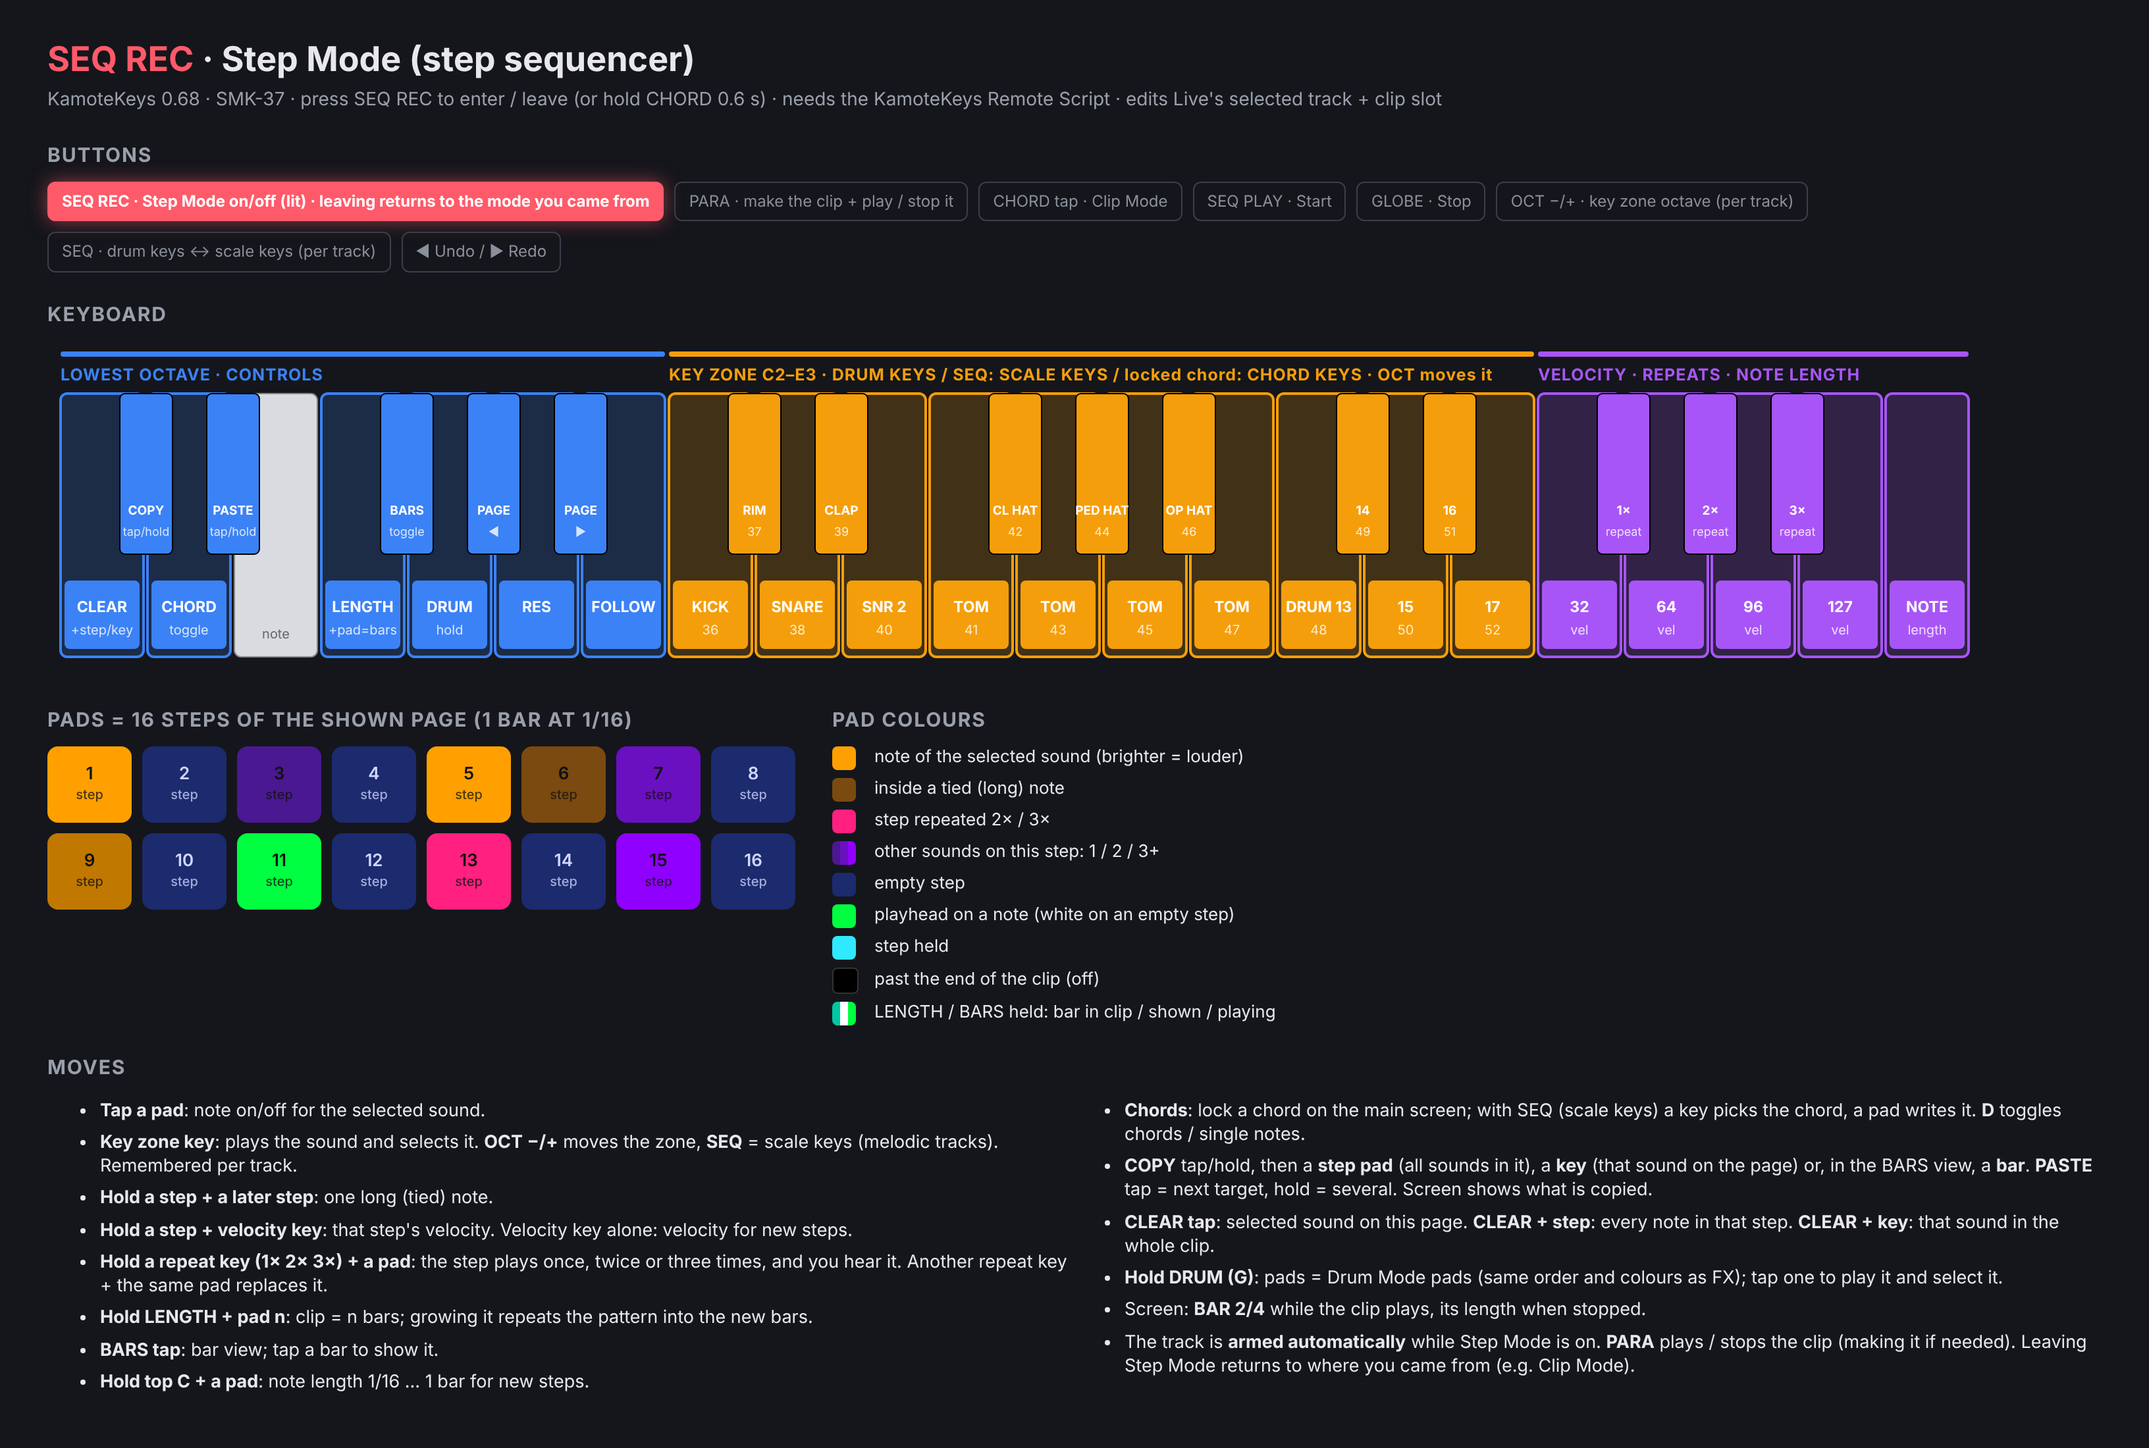
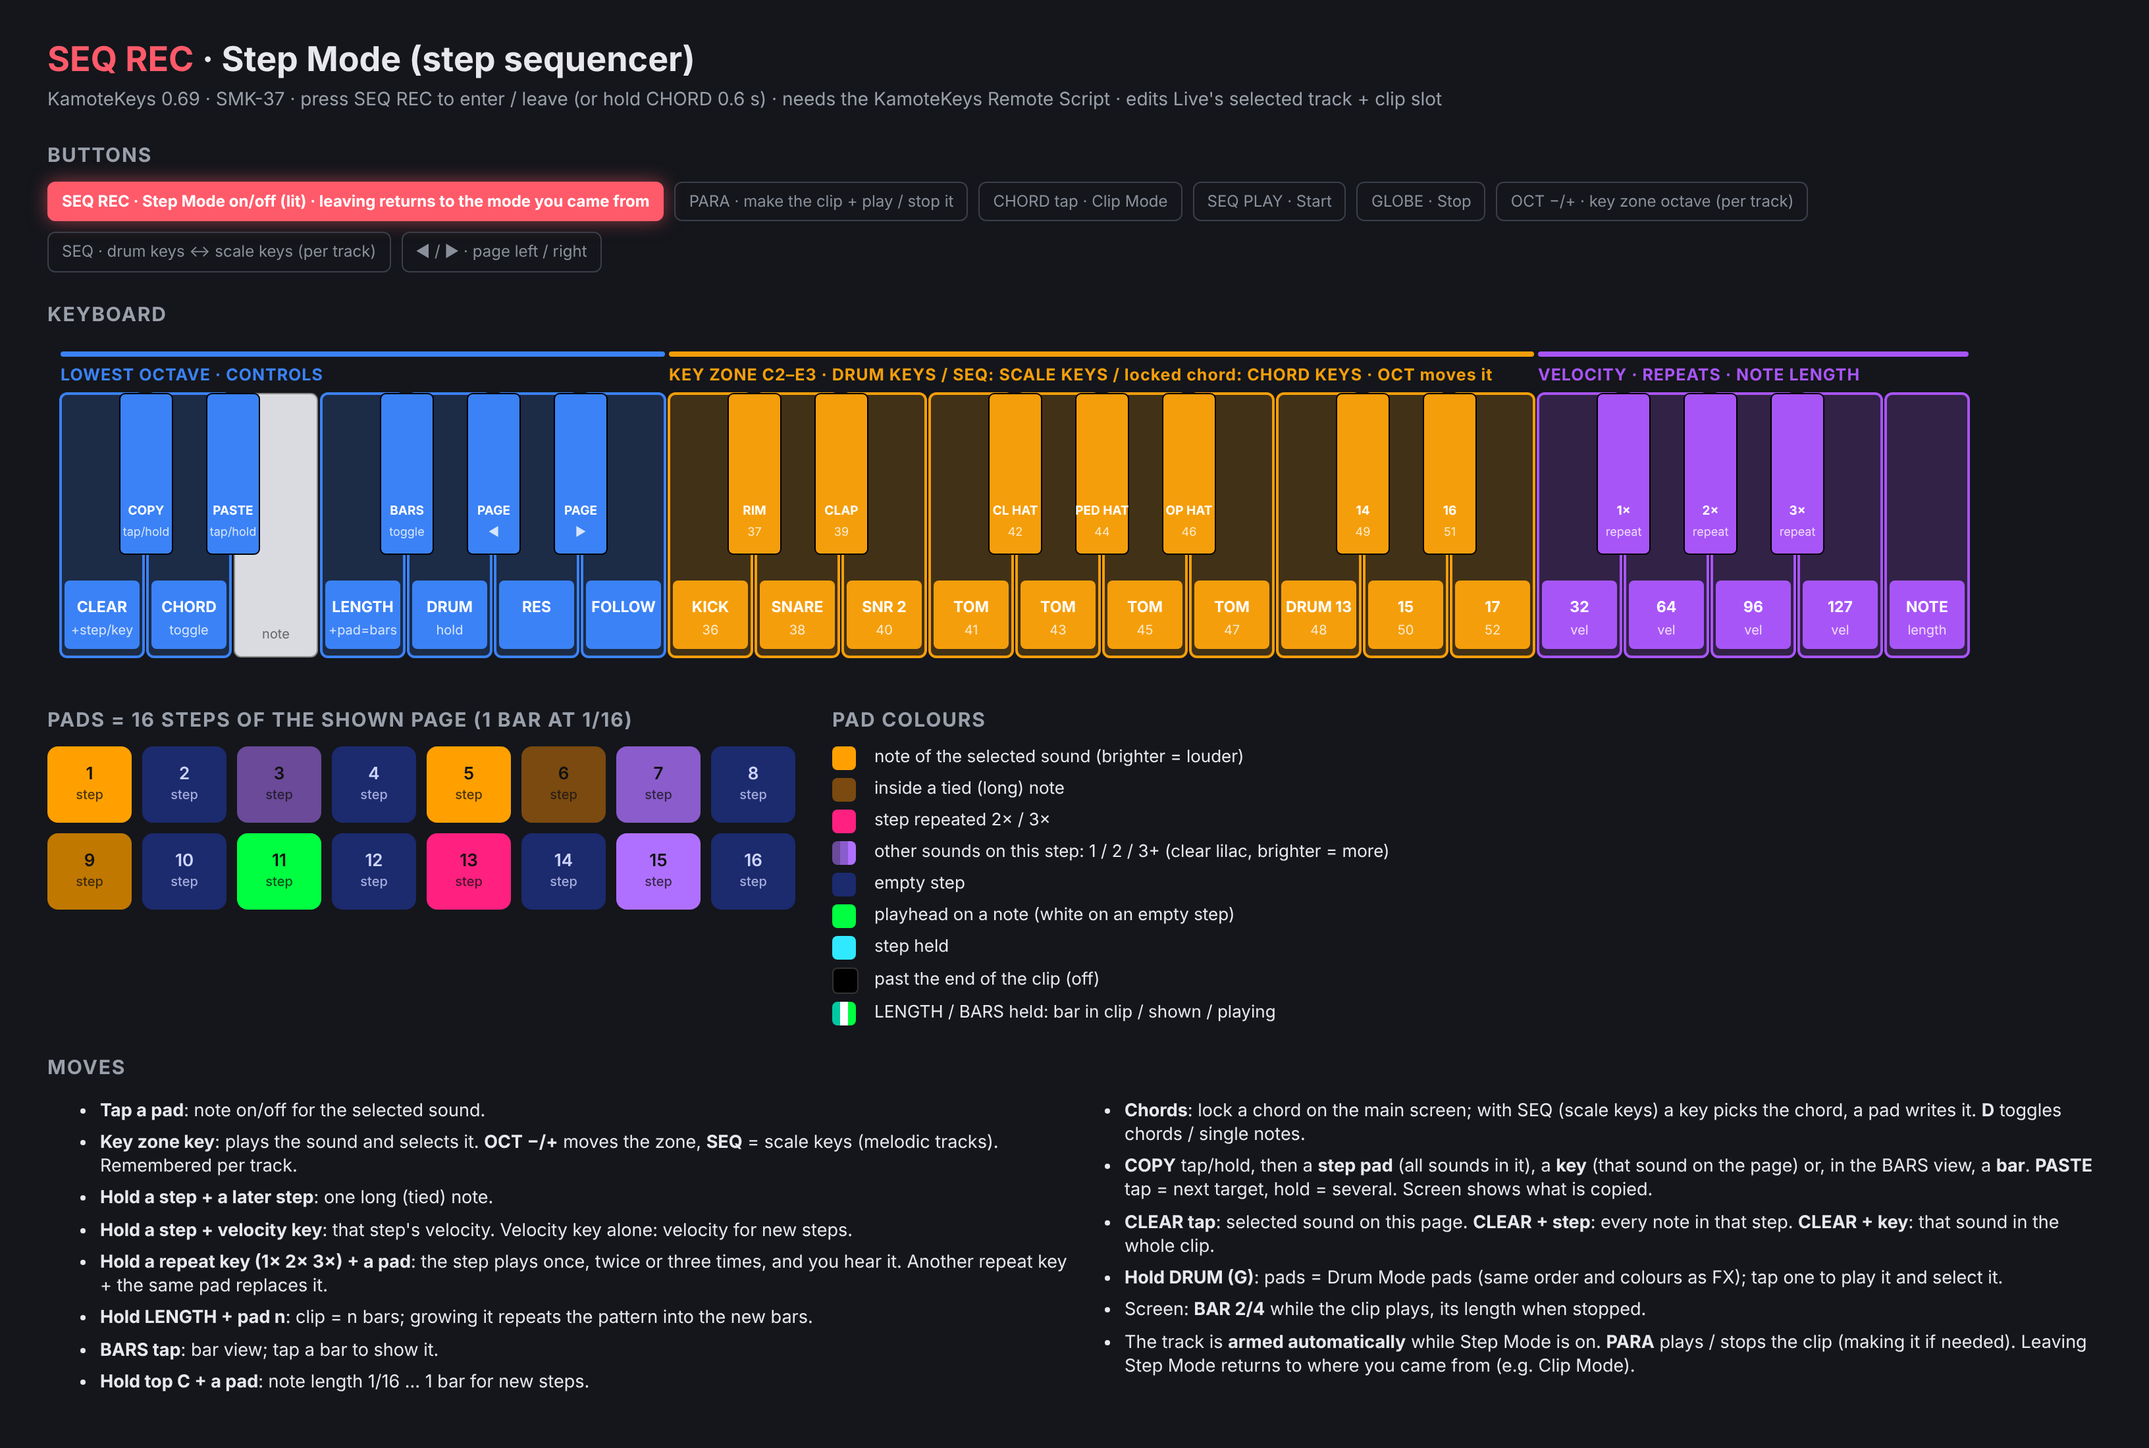
KamoteKeys 0.69: Bluetooth send queue (Step / Clip Mode no longer lose messages on a full BLE buffer), ◀/▶ page in Step Mode, clearer other-sound tint
Claude-Session: https://claude.ai/code/session_014nKCDtX9z2HT4cnrjTFgfW

diff --git a/tests/host/test_features.c b/tests/host/test_features.c
@@ -148,3 +148,60 @@ void test_live_tempo(void)
     host_in(0xBF, KK_HOST_TEMPO_MSB_CC, 1400 >> 7); host_in(0xBF, KK_HOST_TEMPO_LSB_CC, 1400 & 127);
     CHECK(kk_tempo_x10() == 1200, "tempo without the script's hello is ignored");
 }
+
+/* 0.69: every Step Mode and Clip Mode message over Bluetooth only, with the
+ * BLE buffer often full: nothing may be lost or reordered. */
+static unsigned ble_count(unsigned status, int data1) { return out_count(BLE, status, data1); }
+static void ble_in(uint8_t a, uint8_t b, uint8_t c) { uint8_t m[3] = {a, b, c}; fm1_app_midi_received(2, m, 3); }
+void test_bluetooth(void)
+{
+    boot();
+    host_ready_ports = 4; frames(30, 5);                      /* Bluetooth only */
+    ble_in(0xBF, KK_CLIP_HELLO_CC, 1);
+    /* Step Mode in / out and every key type, with the BLE buffer full now and then. */
+    host_clear(); host_ble_busy = 2; tap(KK_BTN_REC); frames(5, 5);
+    CHECK(kk.mode == KK_MODE_STEP && ble_count(0xBD, KK_STEP_SYNC_CC) >= 1, "BLE: Step Mode on reaches Live despite a full buffer");
+    host_clear();
+    host_ble_busy = 3; pad(1, 100); pad(1, 0);                /* a step */
+    host_ble_busy = 1; key(1, 100); key(1, 0);                /* COPY */
+    host_ble_busy = 2; key(12, 100); key(12, 0);              /* key zone: kick (ch 10) + select (ch 13) */
+    host_ble_busy = 1; key(5, 100); pad(2, 100); pad(2, 0); key(5, 0);   /* LENGTH + pad */
+    host_ble_busy = 2; tap(KK_BTN_OCT_UP); tap(KK_BTN_SEQ); tap(KK_BTN_PARA); tap(KK_BTN_LEFT); tap(KK_BTN_RIGHT);
+    host_ble_busy = 1; key(7, 100); pad(9, 100); pad(9, 0); key(7, 0);   /* DRUM view pad: rim */
+    frames(20, 5);
+    CHECK(ble_count(0x9D, 36) == 1 && ble_count(0x8D, 36) == 1, "BLE: step pad on/off");
+    CHECK(ble_count(0x9D, KK_STEP_COPY) == 1 && ble_count(0x8D, KK_STEP_COPY) == 1, "BLE: COPY on/off");
+    CHECK(ble_count(0x99, 36) == 1 && ble_count(0x9C, 36) == 1 && ble_count(0x8C, 36) == 1, "BLE: key zone sound + select");
+    CHECK(ble_count(0x9D, KK_STEP_LENGTH) == 1 && ble_count(0x9D, 37) == 1, "BLE: LENGTH + pad");
+    CHECK(ble_count(0x9D, KK_STEP_OCT_UP) == 1 && ble_count(0x9D, KK_STEP_SCALE_KEYS) == 1 && ble_count(0x9D, KK_STEP_PLAY) == 1 &&
+          ble_count(0x9D, KK_STEP_PAGE_PREV) == 1 && ble_count(0x9D, KK_STEP_PAGE_NEXT) == 1, "BLE: OCT, SEQ, PARA, ◀, ▶");
+    CHECK(ble_count(0x99, 37) == 1 && ble_count(0x9C, 37) == 1, "BLE: DRUM view pad plays + selects");
+    CHECK(out_count(USB, 0x9D, -1) == 0, "BLE only: nothing goes to USB");
+    {   /* order kept: COPY note-on comes after the step pad's note-off */
+        int off = -1, copy = -1;
+        for (unsigned i = 0; i < host_out_n; ++i) {
+            if (host_out[i].port != BLE) continue;
+            if (off < 0 && host_out[i].b[0] == 0x8D && host_out[i].b[1] == 36) off = (int)i;
+            if (copy < 0 && host_out[i].b[0] == 0x9D && host_out[i].b[1] == KK_STEP_COPY) copy = (int)i;
+        }
+        CHECK(off >= 0 && copy > off, "BLE: messages stay in order (%d, %d)", off, copy);
+    }
+    /* Feedback from Live over Bluetooth drives the pads. */
+    ble_in(0xBD, KK_STEP_CODE_CC + 3, KK_STEPC_NOTE_6); settle();
+    CHECK(kk_midi_step_code(3) == KK_STEPC_NOTE_6 && ((host_rgb[3] >> 16) & 255) >= KK_RGB_PEAK * 9 / 10, "BLE: step colours from Live");
+    host_clear(); host_ble_busy = 1; frames(450, 5);
+    CHECK(ble_count(0xBD, KK_STEP_SYNC_CC) >= 1, "BLE: Step Mode heartbeat");
+    host_clear(); host_ble_busy = 2; tap(KK_BTN_REC); frames(5, 5);
+    CHECK(kk.mode == KK_MODE_NORMAL && ble_count(0xBD, KK_STEP_SYNC_CC) == 1, "BLE: Step Mode off reaches Live");
+    /* Clip Mode over Bluetooth. */
+    tap(KK_BTN_CHORD); host_clear();
+    host_ble_busy = 2; pad(3, 100); pad(3, 0); key(1, 100); key(1, 0); key(8, 100); key(8, 0);
+    host_ble_busy = 1; key(10, 100); pad(4, 100); pad(4, 0); key(10, 0); key(30, 100); key(30, 0); key(33, 100); key(33, 0);
+    frames(20, 5);
+    CHECK(ble_count(0x9F, 84 + 2) == 1 && ble_count(0x9F, KK_CLIP_COPY_NOTE) == 1 && ble_count(0x9F, KK_CLIP_ARRANGE_NOTE) == 1 &&
+          ble_count(0x9F, 68 + 3) == 1 && ble_count(0xBE, KK_CC_SCENE_LAUNCH) == 2 && ble_count(0xBE, KK_CC_TRACKS_LEFT) == 2,
+          "BLE: clip select, COPY, ARRANGE, DELETE, scene launch, track view");
+    ble_in(0xBF, KK_CLIP_STATE_CC + 0, KK_CLIP_PLAYING); settle();
+    CHECK(kk_midi_clip_state(0) == KK_CLIP_PLAYING, "BLE: clip states from Live");
+    tap(KK_BTN_CHORD); host_ready_ports = 6; host_ble_busy = 0; frames(30, 5);
+}

diff --git a/devices/fm1/app/midi_router.c b/devices/fm1/app/midi_router.c
@@ -167,6 +167,27 @@ static int held_elsewhere(const struct output *o, unsigned owner, unsigned ch, u
         if (i != owner && (o->held[i][note >> 3] & (1U << (note & 7U))) && owner_channel(i) == ch) return 1;
     return 0;
 }
+/* KamoteKeys (0.69): a message that does not fit the port right now (BLE MIDI
+ * has a small transmit buffer) waits here, in order, instead of resetting
+ * the port and losing everything sent until the reset ends. */
+enum { KQ = 64 };
+static struct { uint8_t m[KQ][3]; uint8_t head, tail; } kq[3];
+static int kq_send(unsigned port, const uint8_t *m)
+{
+    if (kq[port].head == kq[port].tail && !fm1_midi_send_port(port, m, size(m[0]))) return 0;
+    unsigned next = (kq[port].tail + 1U) % KQ;
+    if (next == kq[port].head) return 1;                     /* full: the caller recovers */
+    memcpy(kq[port].m[kq[port].tail], m, 3); kq[port].tail = (uint8_t)next;
+    return 0;
+}
+static void kq_flush(unsigned port)
+{
+    while (kq[port].head != kq[port].tail) {
+        const uint8_t *m = kq[port].m[kq[port].head];
+        if (fm1_midi_send_port(port, m, size(m[0]))) return;
+        kq[port].head = (uint8_t)((kq[port].head + 1U) % KQ);
+    }
+}
 static void deliver(unsigned port, unsigned owner, const uint8_t *m)
 {
     struct output *o = &output[port];
@@ -186,7 +207,7 @@ static void deliver(unsigned port, unsigned owner, const uint8_t *m)
             o->sent_sustain |= (uint16_t)(1U << ch);
         }
     }
-    if (fm1_midi_send_port(port, m, size(m[0]))) { recover(port); ++dropped; }
+    if (owner >= KK_OWNER ? kq_send(port, m) : fm1_midi_send_port(port, m, size(m[0]))) { recover(port); ++dropped; }
     else if (type == 0xb0 && m[1] == 64) {
         if (m[2] >= 64) o->sent_sustain |= (uint16_t)(1U << ch);
         else o->sent_sustain &= (uint16_t)~(1U << ch);
@@ -225,8 +246,9 @@ void groove_midi_poll(void)
 {
     unsigned ready = fm1_midi_ready_ports();
     for (unsigned p = 0; p < 3; ++p) {
-        if ((ready_seen & ~ready) & (1U << p)) recover(p);
+        if ((ready_seen & ~ready) & (1U << p)) { recover(p); kq[p].head = kq[p].tail; }   /* gone: drop the wait queue */
         if (!(ready & (1U << p))) continue;
+        kq_flush(p);
         struct output *o = &output[p];
         if (o->stop) {
             const uint8_t stop = 0xfc;

diff --git a/devices/smk37/app/midi_router.c b/devices/smk37/app/midi_router.c
@@ -206,6 +206,27 @@ static int held_elsewhere(const struct output *o, unsigned owner, unsigned ch, u
         if (i != owner && (o->held[i][note >> 3] & (1U << (note & 7U))) && owner_channel(i) == ch) return 1;
     return 0;
 }
+/* KamoteKeys (0.69): a message that does not fit the port right now (BLE MIDI
+ * has a small transmit buffer) waits here, in order, instead of resetting
+ * the port and losing everything sent until the reset ends. */
+enum { KQ = 64 };
+static struct { uint8_t m[KQ][3]; uint8_t head, tail; } kq[3];
+static int kq_send(unsigned port, const uint8_t *m)
+{
+    if (kq[port].head == kq[port].tail && !fm1_midi_send_port(port, m, size(m[0]))) return 0;
+    unsigned next = (kq[port].tail + 1U) % KQ;
+    if (next == kq[port].head) return 1;                     /* full: the caller recovers */
+    memcpy(kq[port].m[kq[port].tail], m, 3); kq[port].tail = (uint8_t)next;
+    return 0;
+}
+static void kq_flush(unsigned port)
+{
+    while (kq[port].head != kq[port].tail) {
+        const uint8_t *m = kq[port].m[kq[port].head];
+        if (fm1_midi_send_port(port, m, size(m[0]))) return;
+        kq[port].head = (uint8_t)((kq[port].head + 1U) % KQ);
+    }
+}
 static void deliver(unsigned port, unsigned owner, const uint8_t *m)
 {
     struct output *o = &output[port];
@@ -225,7 +246,7 @@ static void deliver(unsigned port, unsigned owner, const uint8_t *m)
             o->sent_sustain |= (uint16_t)(1U << ch);
         }
     }
-    if (fm1_midi_send_port(port, m, size(m[0]))) { recover(port); ++dropped; }
+    if (owner >= KK_OWNER ? kq_send(port, m) : fm1_midi_send_port(port, m, size(m[0]))) { recover(port); ++dropped; }
     else if (type == 0xb0 && m[1] == 64) {
         if (m[2] >= 64) o->sent_sustain |= (uint16_t)(1U << ch);
         else o->sent_sustain &= (uint16_t)~(1U << ch);
@@ -266,8 +287,9 @@ void groove_midi_poll(void)
 {
     unsigned ready = fm1_midi_ready_ports();
     for (unsigned p = 0; p < 3; ++p) {
-        if ((ready_seen & ~ready) & (1U << p)) recover(p);
+        if ((ready_seen & ~ready) & (1U << p)) { recover(p); kq[p].head = kq[p].tail; }   /* gone: drop the wait queue */
         if (!(ready & (1U << p))) continue;
+        kq_flush(p);
         struct output *o = &output[p];
         if (o->stop) {
             const uint8_t stop = 0xfc;

diff --git a/core/kamotkeys/kk_led.c b/core/kamotkeys/kk_led.c
@@ -69,9 +69,9 @@ static uint32_t step_colour(unsigned pad, unsigned *level)
     }
     switch (code) {
     case KK_STEPC_EMPTY: case KK_STEPC_EMPTY_BEAT: *level = 80; return 0x2040ff;   /* empty step: dim blue */
-    case KK_STEPC_GHOST_1: *level = 150; return 0x8020ff;                    /* 1 other sound: violet tint */
-    case KK_STEPC_GHOST_2: *level = 260; return 0x9010ff;
-    case KK_STEPC_GHOST_3: *level = 400; return 0xa000ff;                    /* 3+ other sounds */
+    case KK_STEPC_GHOST_1: *level = 330; return 0xb070ff;                    /* 1 other sound: clear lilac (0.69) */
+    case KK_STEPC_GHOST_2: *level = 520; return 0xb060ff;
+    case KK_STEPC_GHOST_3: *level = 750; return 0xb050ff;                    /* 3+ other sounds */
     case KK_STEPC_TIE: *level = 150; return 0xff8000;                        /* inside a long note */
     case KK_STEPC_RATCHET: *level = LIT; return 0xff2080;                    /* repeated step: pink */
     case KK_STEPC_PLAY_EMPTY: *level = 550; return 0xffffff;                 /* playhead */

diff --git a/tests/host/stubs.c b/tests/host/stubs.c
@@ -21,8 +21,10 @@ uint32_t fm1_millis(void) { return host_ms; }
 unsigned fm1_midi_output_ports(void) { return 6; }
 unsigned fm1_midi_input_ports(void) { return 6; }
 unsigned fm1_midi_ready_ports(void) { return host_ready_ports; }
+unsigned host_ble_busy;   /* > 0: the next sends to BLE fail (small BLE buffer) */
 int fm1_midi_send_port(unsigned port, const uint8_t *m, size_t n)
 {
+    if (port == 2 && host_ble_busy) { --host_ble_busy; return 1; }
     if (host_out_n < HOST_LOG) {
         struct host_msg *x = &host_out[host_out_n++];
         x->port = (uint8_t)port; x->n = (uint8_t)n; memcpy(x->b, m, n);

diff --git a/tests/host/stubs.h b/tests/host/stubs.h
@@ -7,6 +7,7 @@ enum { HOST_LOG = 1 << 20 };
 struct host_msg { uint8_t port, n, b[3]; };
 extern uint32_t host_ms;
 extern struct host_msg host_out[HOST_LOG], host_local[HOST_LOG];
+extern unsigned host_ble_busy;
 extern unsigned host_out_n, host_local_n, host_ready_ports, host_settings_changes;
 extern uint16_t host_fb[240 * 240];
 extern uint32_t host_rgb[16];

diff --git a/core/kamotkeys/kk_config.h b/core/kamotkeys/kk_config.h
@@ -12,7 +12,7 @@
 #define KK_CONFIG_H
 
 #define KAMOTKEYS_NAME "KamoteKeys"
-#define KAMOTKEYS_VERSION "0.68" KK_DEVICE_SUFFIX
+#define KAMOTKEYS_VERSION "0.69" KK_DEVICE_SUFFIX
 #define KAMOTKEYS_TITLE KAMOTKEYS_NAME " " KAMOTKEYS_VERSION
 
 /* MIDI channels, zero based (channel 1 = 0). */

diff --git a/tests/host/test_main.c b/tests/host/test_main.c
@@ -21,6 +21,7 @@ int main(void)
     test_live_tempo();
     test_ripple();
     test_step_mode();
+    test_bluetooth();
     printf("%u checks, %u failures\n", checks, failures);
     return failures != 0;
 }

diff --git a/tests/host/helpers.h b/tests/host/helpers.h
@@ -119,4 +119,5 @@ void test_ripple(void);
 void test_step_mode(void);
 void test_live_tempo(void);
 
+void test_bluetooth(void);
 #endif

diff --git a/docs/ABLETON_REMOTE_SCRIPT.md b/docs/ABLETON_REMOTE_SCRIPT.md
@@ -128,10 +128,11 @@ Colours: see the table below.
 | top C (hold) | pads = **note length** for new steps, 1–16 sixteenths of a bar (tap a pad) |
 | top three black keys (F# G# A#) | hold + a pad: the step plays 1× / 2× / 3× |
 | OCT − / OCT + | moves the key zone by an octave (remembered per track) |
+| ◀ / ▶ (left block) | page left / right (0.69; same as G# / A#; ◀ + PARA stays the metronome) |
 | SEQ | key zone = drum keys / **scale keys** (remembered per track; tracks without a Drum Rack start with scale keys) |
 
 - **Key zone**: a key **plays its sound and selects it** for the steps, like tapping a drum pad on Move. With SEQ the white keys play the scale set with Faders 2 / 3 (black keys silent), so melodic tracks can be step-sequenced too. **Hold DRUM (G)**: the pads become Drum Mode pads (same order and colours as FX Drum Mode: pad 1 kick, pad 9 rim, pad 2 snare …, from the key zone's octave); tapping one plays it and selects it for the steps. Let go of DRUM and the pads are steps again.
-- **Other sounds on a step**: an empty step of the selected sound shows a violet tint when other sounds play there, stronger with 2 and 3+ of them.
+- **Other sounds on a step**: an empty step of the selected sound shows a clear lilac when other sounds play there, brighter with 2 and 3+ of them.
 - **LENGTH (hold) + pad n** sets the clip to **n bars** (pads show the bars while LENGTH is held). Growing a clip repeats its pattern into the new bars (if they are empty).
 - **BARS (tap F#)**: pads show the clip's bars (teal = in the clip, white = the bar on the pads, green = playing); tap one to show it and return to the pattern, or tap F# again.
 - **Chords**: lock a chord on the main screen (chord pads + LOCK), enter Step Mode: with scale keys (SEQ) or on a track without a Drum Rack, a key picks that chord (built on the key's note, in the scale) and a pad writes the whole chord, with the note length set on the top C. SEQ switches scale keys on / off without leaving Step Mode.

diff --git a/CHANGELOG.md b/CHANGELOG.md
@@ -1,5 +1,11 @@
 # Changelog
 
+## KamoteKeys 0.69 (development snapshot)
+
+- **Fix: Step Mode (and Clip Mode) over Bluetooth.** When the Bluetooth MIDI buffer was momentarily full, the router reset the port and dropped every message until the reset finished, so step pads, function keys, key-zone picks and Step Mode on/off were lost on Bluetooth (USB has a much bigger buffer). KamoteKeys messages now wait in a small queue and go out in order as soon as there is room (SMK-37 and FM-1). New Bluetooth-only test of every Step and Clip Mode message with a full buffer.
+- **◀ / ▶ turn the page in Step Mode** (like G# / A#); ◀ + PARA is still the metronome.
+- **Other sounds on a step are much clearer:** a lilac tint at 2-3x the old brightness, brighter with more sounds.
+
 ## KamoteKeys 0.68 (development snapshot)
 
 - **Fix: Step Mode DRUM view pads now play.** Holding DRUM (G) turns the pads into Drum Mode pads: the same order and colours as FX Drum Mode (pad 1 kick, pad 9 rim, pad 2 snare …, following the key zone's octave), they sound on channel 10 and select the drum for the steps. Before, they only selected the Drum Rack pad in Live, in a Push-style order.
